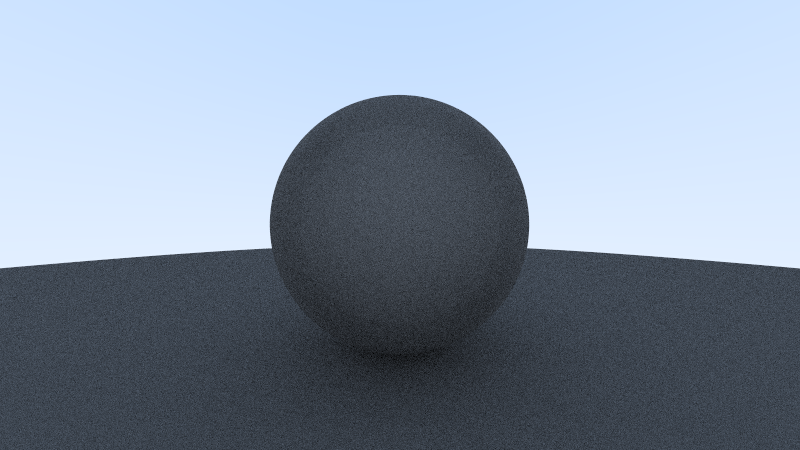
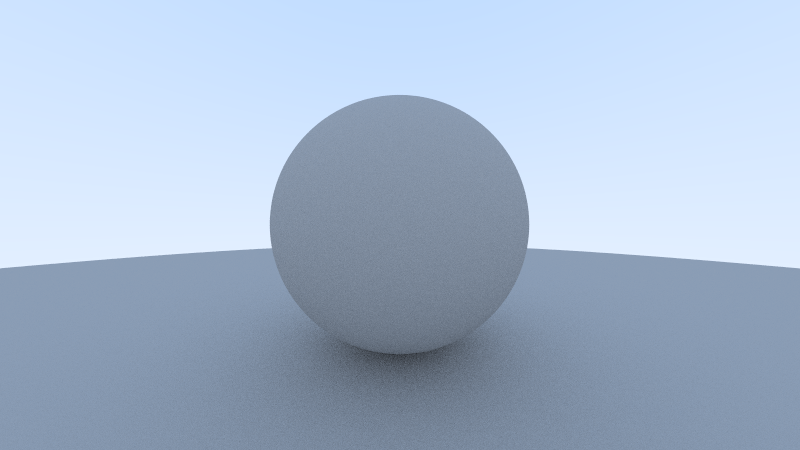
acne fix

diff --git a/src/ray.rs b/src/ray.rs
@@ -24,7 +24,7 @@ pub fn color(ray: &Ray, scene: &impl Object, depth: u8) -> Color {
         return vec3!(0);
     };
 
-    match scene.hit(ray, (0.0, f64::INFINITY)) {
+    match scene.hit(ray, (0.00001, f64::INFINITY)) {
         Some(hit) => {
             //(hit.normal + vec3!(1)) / 2.0
             let direction = hit.normal + Vec3::rand_unitvec();
